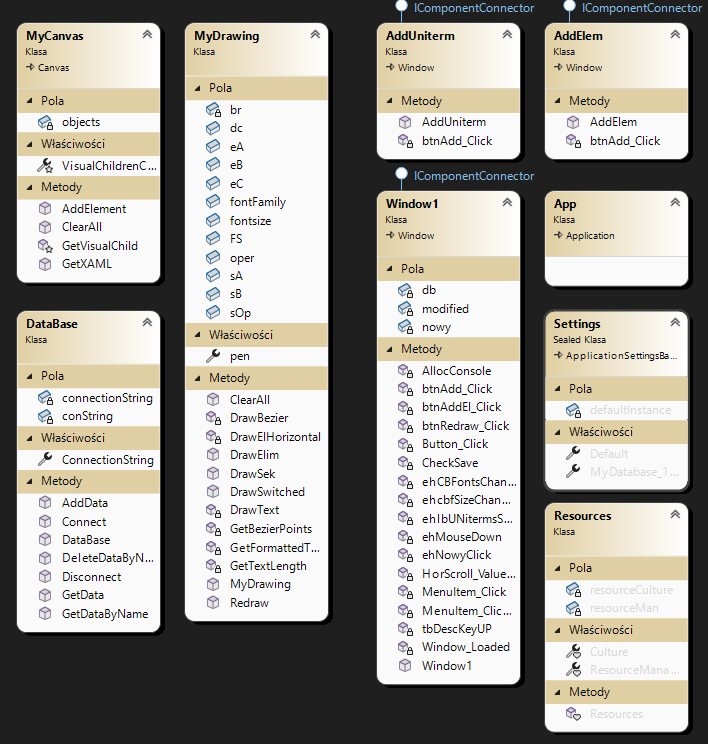
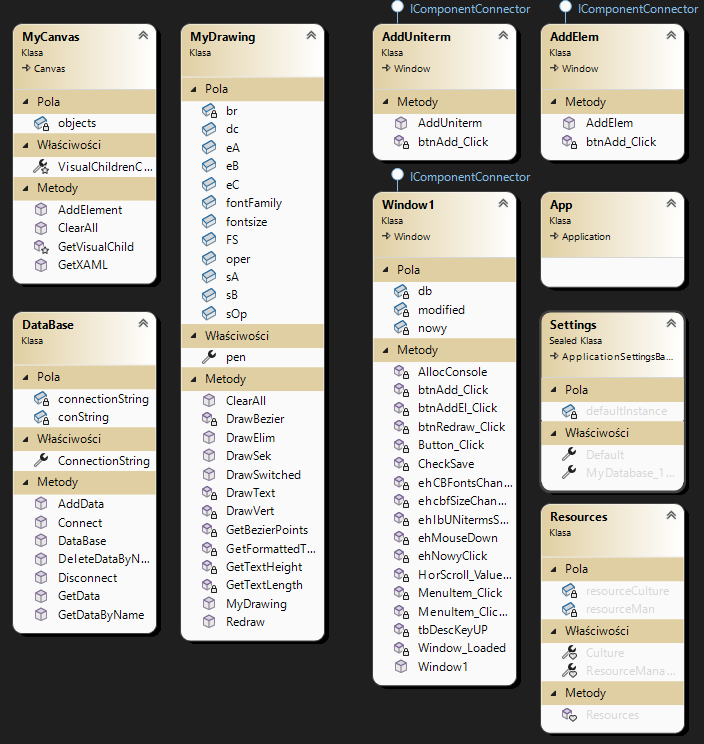
Teraz działa wszystko

diff --git a/Uniterm/MyDrawing.cs b/Uniterm/MyDrawing.cs
@@ -59,7 +59,7 @@ namespace Uniterm
 
         public void Redraw()
         {
-            if (oper != ' ')          
+            if (oper != ' ')
             {
                 DrawSwitched(new Point(20, fontsize + 30));
             }
@@ -71,8 +71,7 @@ namespace Uniterm
                 }
                 if (eA != "")
                 {
-                    DrawElim(new Point(30, fontsize * 3 + 30));
-                    //DrawSek(new Point(30, fontsize + 30));
+                    DrawElim(new Point(30, fontsize * 6 + 30));
                 }
             }
         }
@@ -87,26 +86,32 @@ namespace Uniterm
         public void DrawSek(Point pt)
         {
             if (sA == "" || sOp == "") return;
-            int len = GetTextLength(sA + sOp + sB);
 
-            DrawText(pt, sA + sOp + sB);
-            DrawBezier(new Point(pt.X, pt.Y - 1), len);
+            Point p2 = new Point(pt.X + 2, pt.Y);
+            string text = sA + Environment.NewLine.ToString() + sOp + Environment.NewLine.ToString() +
+                sB + Environment.NewLine.ToString();
+
+            double l = GetTextHeight(text) + 2;
+
+            DrawText(p2, text);
+
+            DrawBezier(new Point(pt.X, pt.Y - 1), (int)l);
         }
 
-      public void DrawElim(Point pt)
-        
-      {
+        public void DrawElim(Point pt)
+
+        {
             if (eA == "" || eB == "" || eC == "") return;
 
             Point p2 = new Point(pt.X + 2, pt.Y);
-            string text = eA + " ; " + eB +" ; " + eC;
+            string text = eA + Environment.NewLine.ToString() + ";" + Environment.NewLine.ToString() +
+                eB + Environment.NewLine.ToString() +
+                ";" + Environment.NewLine.ToString() + eC;
 
-            double l = GetTextLength(text);
+            double l = GetTextHeight(text) + 2;
 
-            //DrawText(p2, text);
-            //DrawVert(pt, (int)l);
-            DrawText(pt, text);
-            DrawElHorizontal(pt, (int)l);
+            DrawText(p2, text);
+            DrawVert(pt, (int)l);
         }
 
         public void DrawSwitched(Point pt)
@@ -114,27 +119,35 @@ namespace Uniterm
             if (sA == "" || sOp == "" || eA == "" || eB == "" || eC == "") return;
 
 
-            string textElim = eA + " ; " + eB + " ; " + eC;
+            string textElim = eA + Environment.NewLine.ToString() + ";" + Environment.NewLine.ToString() +
+                eB + Environment.NewLine.ToString() +
+                ";" + Environment.NewLine.ToString() + eC;
 
-            int length = GetTextLength(textElim);
 
-            string tmpOp = " " + sOp + " ";
-            Console.WriteLine("sOp:"+ tmpOp);
+            int length = GetTextHeight(textElim)+ 10;
+
 
             if (oper == 'A')
             {
-                DrawText(new Point(pt.X + length + (fontsize / 3), pt.Y + 3), tmpOp + sB);
-                DrawElim(new Point(pt.X + (fontsize / 3), pt.Y + 5));
-                length += GetTextLength(tmpOp + sB) + (int)(fontsize / 3);
+                string text = sOp + Environment.NewLine.ToString() + sB;
+ 
+                DrawText(new Point(pt.X + (fontsize / 3) - 2, pt.Y + length + (fontsize / 3)), sOp);
+                DrawText(new Point(pt.X + GetTextLength(sOp) - 2, pt.Y + length + (fontsize / 3) + GetTextHeight(sOp)), sB);
+
+                DrawElim(new Point(pt.X + GetTextLength(text), pt.Y + (fontsize / 3) + 4));
+
+                length += GetTextHeight(text) + (int)(fontsize / 3);
             }
             if (oper == 'B')
             {
-                int sekTextLenght = GetTextLength(sA+tmpOp)+10;
+                string text = sA + Environment.NewLine.ToString() + sOp;
 
-                DrawText(new Point(pt.X+5,pt.Y), sA + tmpOp+ " ");
-                DrawElim(new Point(pt.X + sekTextLenght + (fontsize / 3), pt.Y + 5));
+                DrawText(new Point(pt.X + GetTextLength(sOp) - 2 - 2, pt.Y + (fontsize / 3)), sA);
+                DrawText(new Point(pt.X + (fontsize / 3) - 2, pt.Y + (fontsize / 3) + GetTextHeight(sA) -3), sOp);
 
-                length += GetTextLength(sOp + sB) + (int)(fontsize / 3)+10;
+                DrawElim(new Point(pt.X + GetTextLength(text), pt.Y + (fontsize / 3) + 5 + GetTextHeight(text)));
+
+                length += GetTextHeight(text) + (int)(fontsize / 3);
             }
 
             DrawBezier(pt, length + 5);
@@ -144,21 +157,31 @@ namespace Uniterm
 
         #region Private Methods
 
+        private void DrawVert(Point pt, int length)
+        {
+            dc.DrawLine(pen, pt, new Point { X = pt.X, Y = pt.Y + length });
+            double b = (Math.Sqrt(length) / 2) + 2;
+
+            dc.DrawLine(pen, new Point(pt.X - (b / 2), pt.Y), new Point(pt.X + (b / 2), pt.Y));
+            dc.DrawLine(pen, new Point(pt.X - (b / 2), pt.Y + length), new Point(pt.X + (b / 2), pt.Y + length));
+
+        }
+
         private void DrawBezier(Point p0, int length)
         {
             Point start = p0;
             Point p1 = new Point(), p2 = new Point(), p3 = new Point();
 
-            p3.Y = p0.Y;
-            p3.X = p0.X + length;
+            p3.Y = p0.Y + length;
+            p3.X = p0.X;
 
             int b = (int)Math.Sqrt(length) + 2;
 
-            p1.X = p0.X + (int)(length * 0.25);
-            p1.Y = p0.Y - b;
+            p1.X = p0.X - b;
+            p1.Y = p0.Y + (int)(length * 0.25);
 
-            p2.X = p0.X + (int)(length * 0.75);
-            p2.Y = p0.Y - b;
+            p2.X = p0.X - b;
+            p2.Y = p0.Y + (int)(length * 0.75);
 
             foreach (Point pt in GetBezierPoints(p0, p1, p2, p3))
             {
@@ -167,25 +190,14 @@ namespace Uniterm
             }
         }
 
-        private void DrawElHorizontal(Point p0,int length)
-        {
-            Point start = p0;
-            Point end  = new Point();
-            end.X = p0.X + length;
-            end.Y = p0.Y;
-
-            double b = (Math.Sqrt(length) / 2) + 4;
-
-            dc.DrawLine(pen, new Point(start.X, start.Y - (b / 2)), new Point(start.X, start.Y + (b / 2)));
-            dc.DrawLine(pen, new Point(end.X, end.Y - (b / 2)), new Point(end.X, end.Y + (b / 2)));
-
-            dc.DrawLine(pen, start, end);
-
-        }
-
         private void DrawText(Point point, string text)
         {
             dc.DrawText(GetFormattedText(text), point);
+        }
+
+        private int GetTextHeight(string text)
+        {
+            return (int)GetFormattedText(text).Height;
         }
 
         private int GetTextLength(string text)
@@ -210,7 +222,7 @@ namespace Uniterm
                         + 3 * t * tas * B.Y
                         + 3 * tbs * (1 - t) * C.Y
                         + tbc * D.Y,
-                   X = +tac * A.X
+                    X = +tac * A.X
                         + 3 * t * tas * B.X
                         + 3 * tbs * (1 - t) * C.X
                         + tbc * D.X
